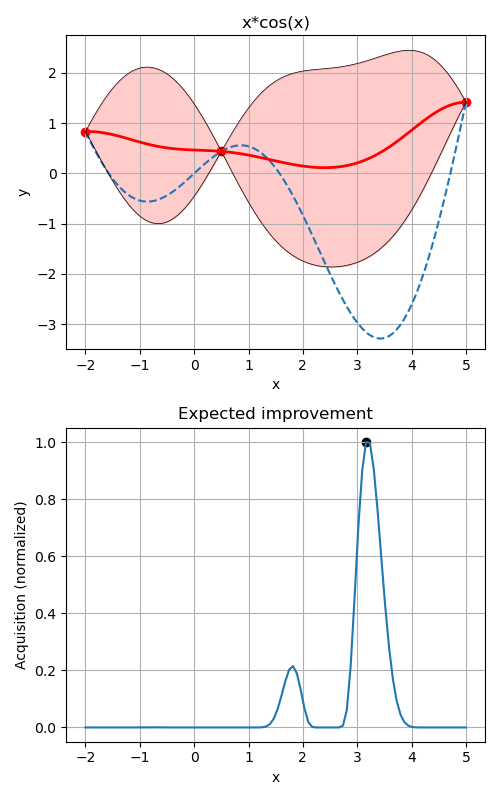
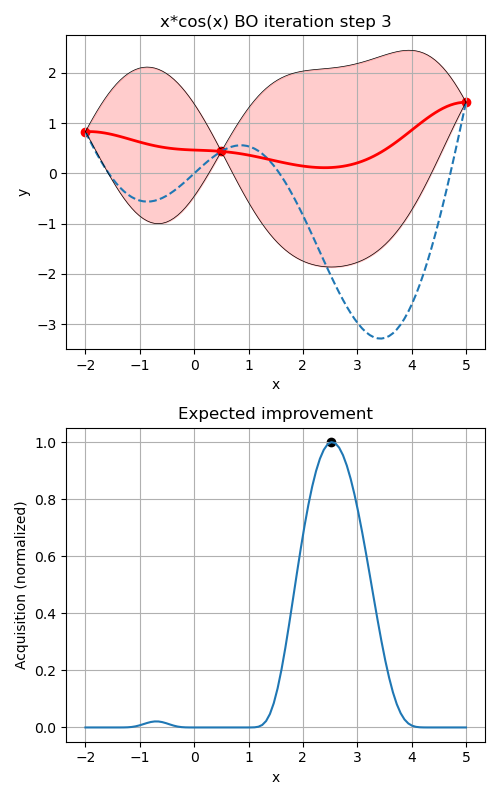
new commit

diff --git a/sklearntest.py b/sklearntest.py
@@ -45,7 +45,7 @@ des_grid = np.linspace(-2, 5, 100).reshape(-1, 1)
 x = X[0]
 
 n_features = 1
-k = 1
+k = 6
 for i in range(k):
     gpr_step = GaussianProcessRegressor().fit(X, y)
     mu_par, sigma_par = gpr_step.predict(np.array(x).reshape((1, n_features)), return_std=True)
@@ -67,14 +67,14 @@ axs1[0].fill_between(des_grid.flatten(), -y_pred.flatten() - 2 * sigma_pred, -y_
 axs1[0].scatter(X[:-1], -y[:-1], color='r')
 axs1[0].set_xlabel('x')
 axs1[0].set_ylabel('y')
-axs1[0].set_title('x*cos(x)')
+axs1[0].set_title('x*cos(x) BO iteration step %d' % k)
 axs1[0].set_ylim([-3.5, 2.75])
 
-gpr_step = GaussianProcessRegressor().fit(X, y)
-mu_par, sigma_par = gpr_step.predict(np.array(x).reshape((1, 1)), return_std=True)
-
-x = des_grid[np.argmax(acqEI(des_grid, gpr_step, X))]; y_step = f(x)
-X = np.append(X, x).reshape(-1, 1); y = np.append(y, y_step).reshape(-1, 1)
+# gpr_step = GaussianProcessRegressor().fit(X, y)
+# mu_par, sigma_par = gpr_step.predict(np.array(x).reshape((1, 1)), return_std=True)
+#
+# x = des_grid[np.argmax(acqEI(des_grid, gpr_step, X))]; y_step = f(x)
+# X = np.append(X, x).reshape(-1, 1); y = np.append(y, y_step).reshape(-1, 1)
 
 acq = acqEI(des_grid, gpr_step, X)
 axs1[1].plot(des_grid, acqEI(des_grid, gpr_step, X) / max(acqEI(des_grid, gpr_step, X)))

diff --git a/newtontest.py b/newtontest.py
@@ -1,0 +1,41 @@
+import numpy as np
+import matplotlib.pyplot as plt
+
+# from sklearn.datasets import make_friedman2
+from sklearn.gaussian_process import GaussianProcessRegressor
+from sklearn.gaussian_process.kernels import *
+from scipy.optimize import rosen
+
+from scipy.stats import norm
+
+def f(x):
+    return x * np.cos(x)
+
+def df(x):
+    return np.cos(x) - x * np.sin(x)
+
+def d2f(x):
+    return -2 * np.sin(x) - x * np.cos(x)
+
+x = 0.5
+
+X = np.array(x)
+y = np.array(f(x))
+k = 6
+for i in range(k):
+    x = x - df(x) / d2f(x)
+    X = np.append(X, x); y = np.append(y, f(x))
+
+des_grid = np.linspace(-1, 4.5, 100).reshape(-1, 1)
+
+noise = 0 # np.random.rand(100).reshape((100, 1))
+
+plt.plot(des_grid, f(des_grid) + noise, '--')
+plt.scatter(X, y, color='r')
+plt.xlabel('x')
+plt.ylabel('y')
+plt.title('x*cos(x) Newton iteration step %d' % k)
+
+plt.grid()
+
+plt.show()
